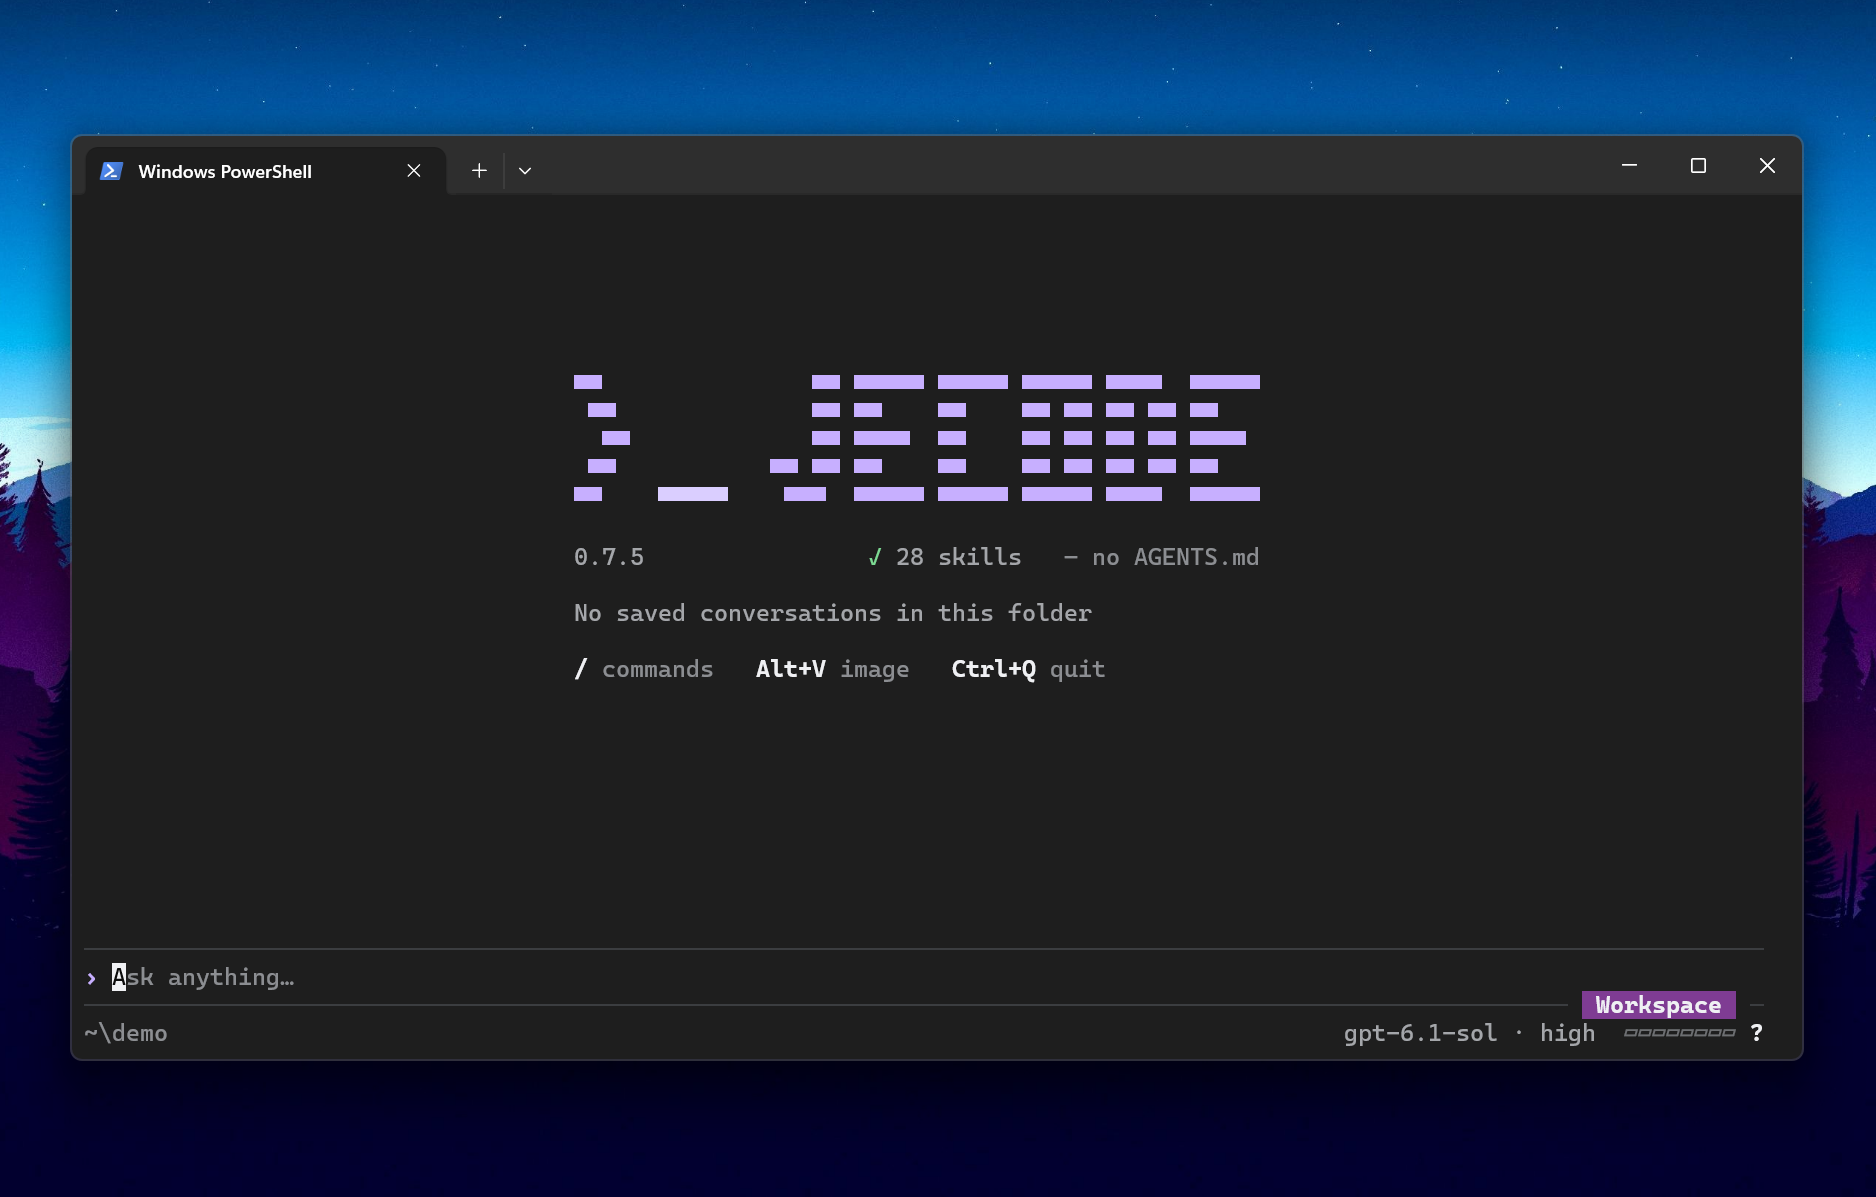
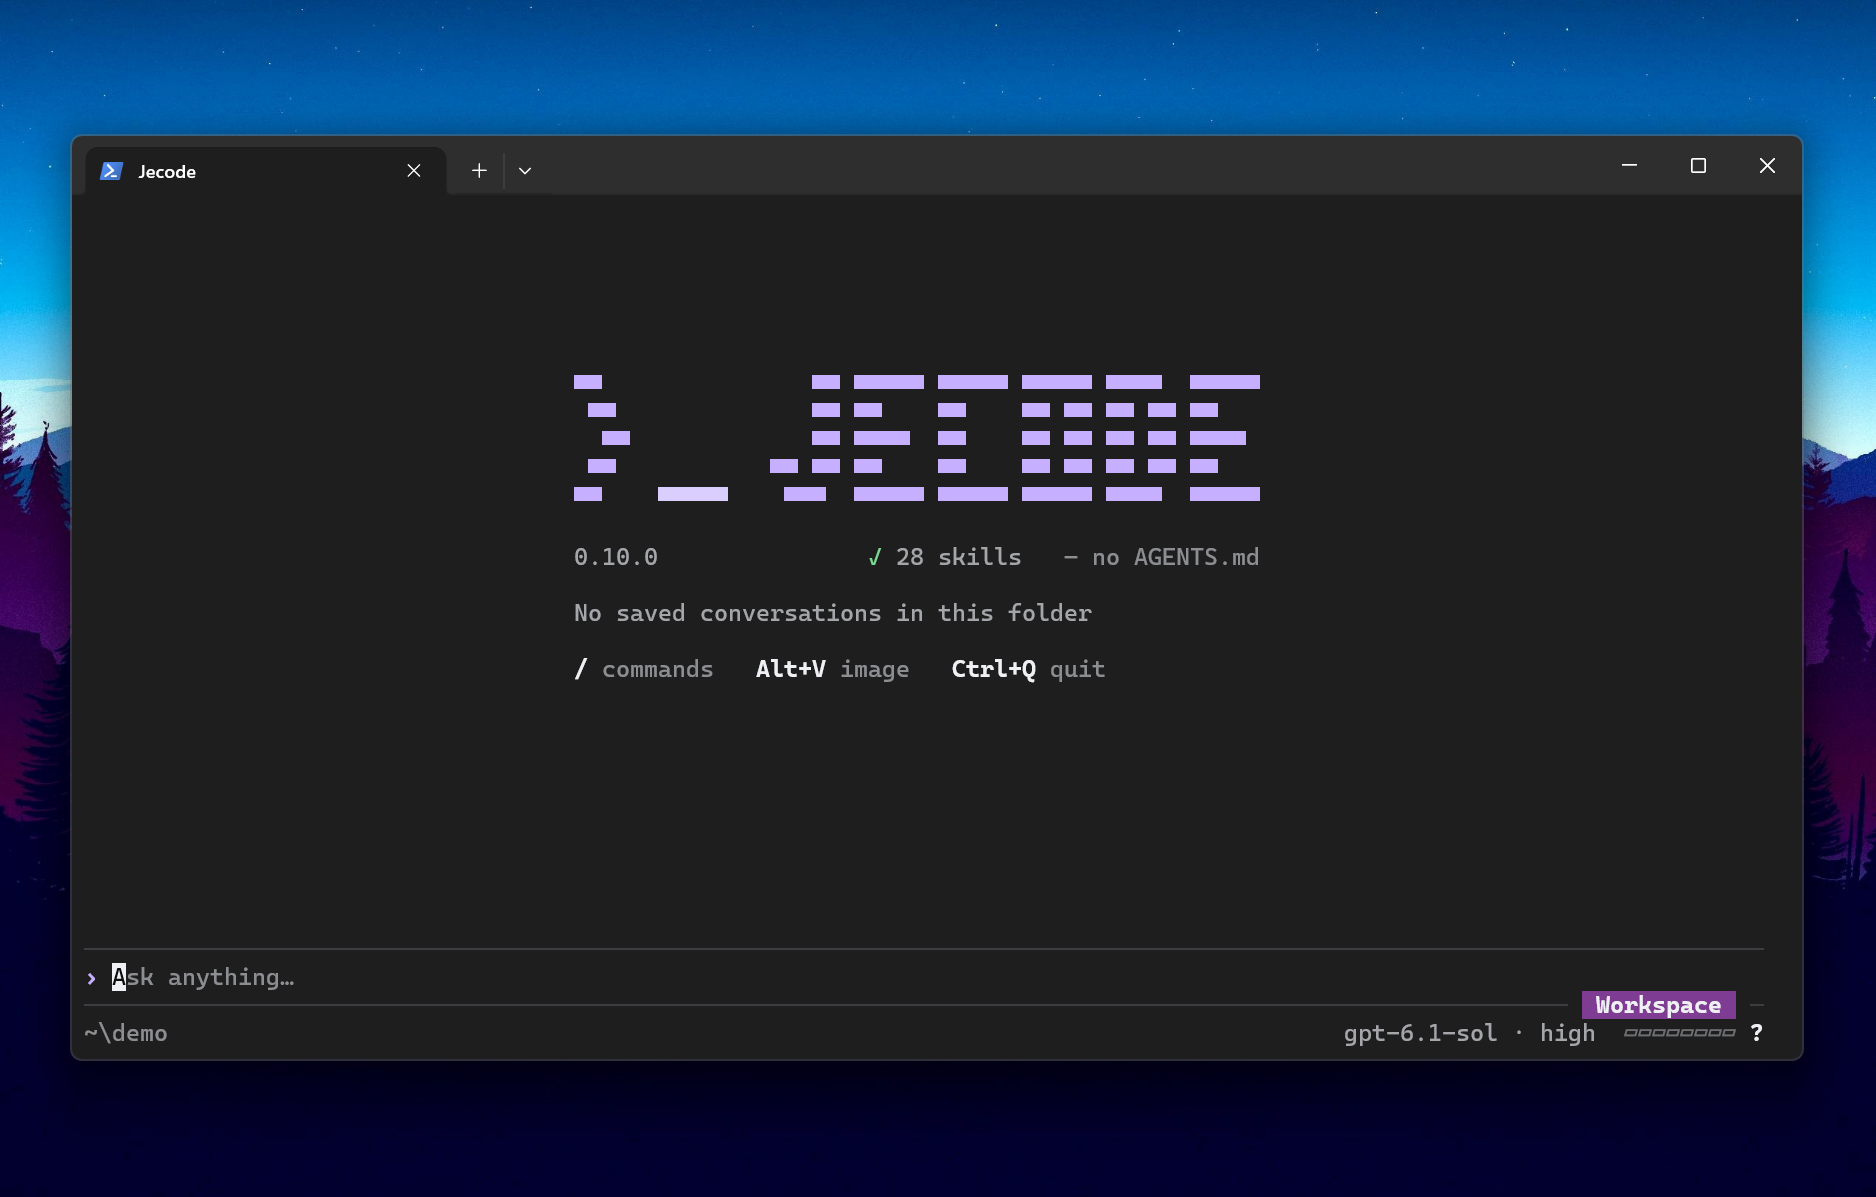
Prepare Jecode 0.10.0 for release (#96)

diff --git a/npm/README.md b/npm/README.md
@@ -4,9 +4,9 @@ Jecode is a coding agent for your terminal. Choose a model, describe a task,
 and let it read your project, edit files, run commands and check
 the result. Tool cards and diffs show the work as it happens.
 
-![Jecode running in Windows Terminal, with its startup screen, composer and model status](https://raw.githubusercontent.com/giovannijecha/jecode/9e39e37abbeeb325f3815e4f1fa1e512dc7f9f4d/docs/images/jecode-startup.png)
+![Jecode running in Windows Terminal, with its startup screen, composer and model status](https://raw.githubusercontent.com/giovannijecha/jecode/d3275083a1da2f46610ab8986c3f8cfe692c9280/docs/images/jecode-startup.png)
 
-*Jecode 0.7.5 in Windows Terminal, with GPT-6.1 Sol selected.*
+*Jecode 0.10.0 in Windows Terminal, with GPT-6.1 Sol selected.*
 
 ## Install
 
@@ -48,9 +48,9 @@ sent to providers and local credential storage.
 Read the [release notes](https://github.com/giovannijecha/jecode/blob/main/CHANGELOG.md)
 before updating: this build resumes only conversations in its current format
 and leaves unsupported files unchanged. `jecode update --check` reports whether
-a newer release is published, `jecode update` installs it through npm, and
-`jecode uninstall` removes this npm installation while keeping your settings and
-conversations. The
+a newer release is published, `jecode update` updates the running installation
+through npm or Volta, and `jecode uninstall` removes that installation while
+keeping your settings and conversations. The
 [installation guide](https://github.com/giovannijecha/jecode/blob/main/docs/usage/INSTALLATION.md#update-jecode)
 covers updates, removal and existing standalone installations.
 

diff --git a/CHANGELOG.md b/CHANGELOG.md
@@ -1,6 +1,6 @@
 # Release notes
 
-## Unreleased
+## 0.10.0
 
 Changes since 0.7.5.
 
@@ -26,6 +26,10 @@ Changes since 0.7.5.
   your Jecode home. See [Installation](docs/usage/INSTALLATION.md#update-jecode).
 - **Interface.** `/help` gains a **Shell** tab listing these commands, and
   Settings → Providers → API keys can remove a saved key with Ctrl+D.
+- **References.** Skill and file cards move, wrap and delete as complete items
+  in the composer and remain recognizable in sent messages.
+- **Task and question marks.** Task lists and question choices use consistent
+  circle marks in their summaries and expanded views.
 - **Terminal title.** The interactive TUI sets the tab or window title to
   `Jecode` and restores the previous title on supported terminals. `--plain`,
   JSON and piped runs leave it unchanged. Unix sessions identified as Windows

diff --git a/docs/usage/INTERFACE.md b/docs/usage/INTERFACE.md
@@ -335,6 +335,10 @@ conversation is never dumped into your terminal's scrollback; it stays in the
 
 - The TUI needs a VT-compatible terminal. If it cannot start, the error suggests
   `jecode --plain`.
+- The TUI sets the tab or window title to `Jecode` and restores the previous
+  title when it exits, where the terminal supports this. Unix sessions inside
+  Windows Terminal keep their title because that host lacks the title
+  save/restore stack. Plain, JSON and piped runs leave the title unchanged.
 - Colors are 24-bit, or the 256-color palette on a Linux or macOS terminal that does
   not declare 24-bit support; see [Theme](../development/TUI_THEME.md). `NO_COLOR` is ignored. Jecode never paints a
   background: it keeps your terminal's own. The `appearance.theme` setting, or

diff --git a/README.md b/README.md
@@ -13,7 +13,7 @@ available; read the [provider caveat](docs/usage/PROVIDERS.md#claude-account).
 
 ![Jecode running in Windows Terminal, with its startup screen, composer and model status](docs/images/jecode-startup.png)
 
-*Jecode 0.7.5 in Windows Terminal, with GPT-6.1 Sol selected.*
+*Jecode 0.10.0 in Windows Terminal, with GPT-6.1 Sol selected.*
 
 ## Install
 
